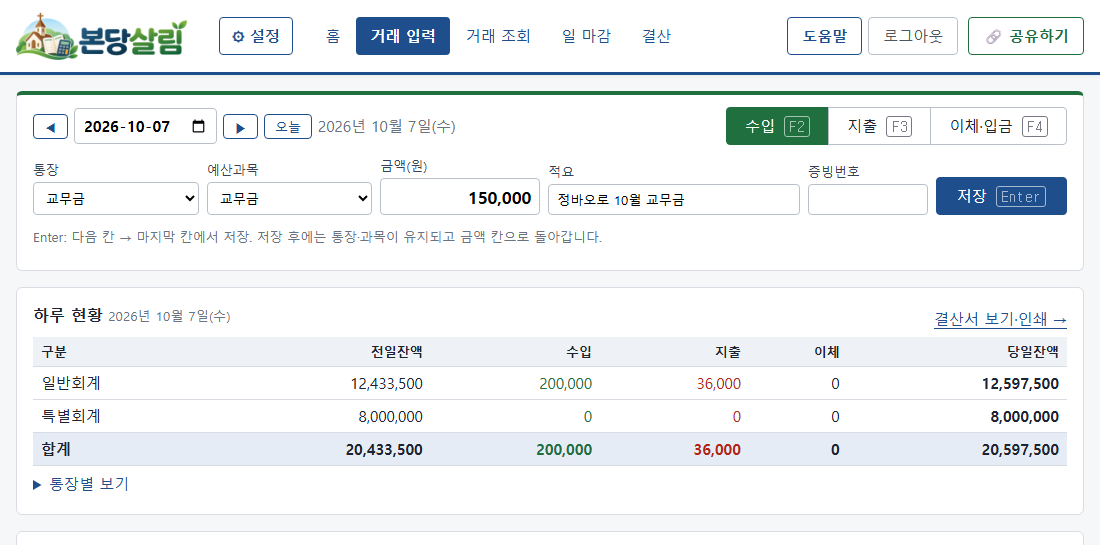
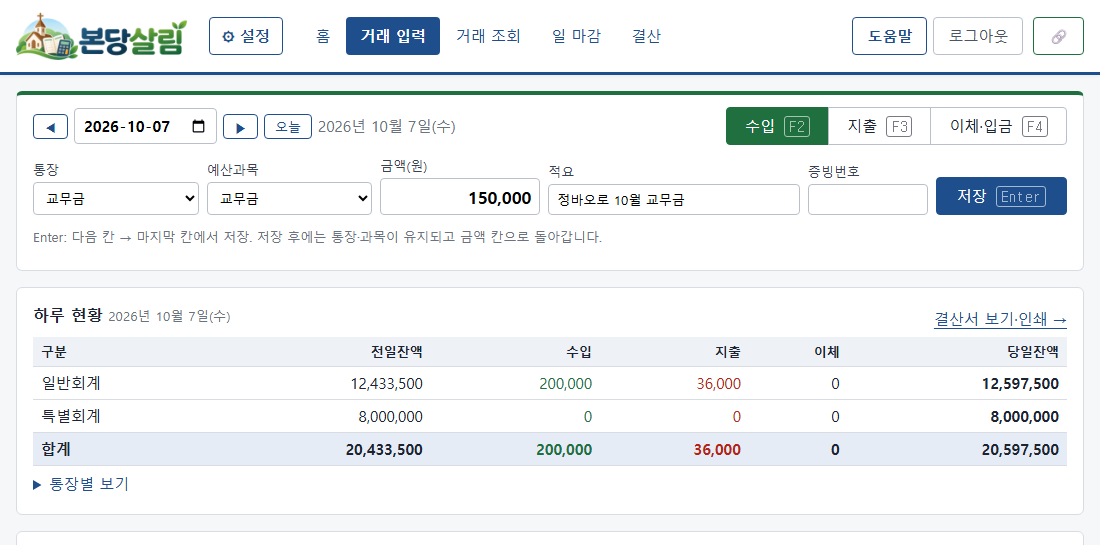
일 마감: [이 날짜 마감하기]·[마감취소]를 앞에, [결산서 보기·인쇄]를 뒤로 (버튼 높이도 같게), 도움말 그림 갱신

Changed region(s): [[0.1855, 0.0312, 0.6182, 0.0936], [0.7109, 0.0312, 0.9891, 0.0936]]

diff --git a/public/js/closing.js b/public/js/closing.js
@@ -103,9 +103,9 @@ async function loadDetail(date) {
       ${approvalBoxHtml(c.approvalSteps)}` : ''}
 
     <div class="detail-actions">
-      <a class="button secondary" href="${href(`/report?date=${date}`)}">결산서 보기·인쇄</a>
       ${info.canClose ? `<button type="button" data-close-date="${date}">이 날짜 마감하기</button>` : ''}
       ${info.canReopen ? `<button type="button" class="danger" data-reopen="${date}">마감취소</button>` : ''}
+      <a class="button secondary" href="${href(`/report?date=${date}`)}">결산서 보기·인쇄</a>
       ${!info.canClose && !closed && !covered && date <= info.today && date >= info.startDate
         ? `<p class="help">앞 날짜(${formatKoreanDate(info.nextRequired)})에 마감되지 않은 거래가 있습니다. 그 날부터 순서대로 마감하세요.</p>` : ''}
       ${closed && !info.canReopen ? '<p class="help">마감취소는 가장 마지막 마감일부터 순서대로만 할 수 있습니다.</p>' : ''}

diff --git a/public/css/app.css b/public/css/app.css
@@ -275,7 +275,7 @@ ul.legend { list-style: none; padding: 0; display: flex; flex-wrap: wrap; gap: 1
 .detail-head { display: flex; align-items: center; gap: 12px; }
 .detail-head h2 { margin: 0; }
 .detail-actions { display: flex; flex-wrap: wrap; gap: 8px; align-items: center; margin: 16px 0 4px; }
-.detail-actions button { padding: 9px 20px; }
+.detail-actions button, .detail-actions .button { padding: 9px 20px; line-height: 1.5; }
 .pill { display: inline-block; padding: 2px 10px; border-radius: 12px; font-size: 12px; color: #fff; }
 .pill.closed { background: var(--in); }
 .pill.locked { background: #9ca3af; }
